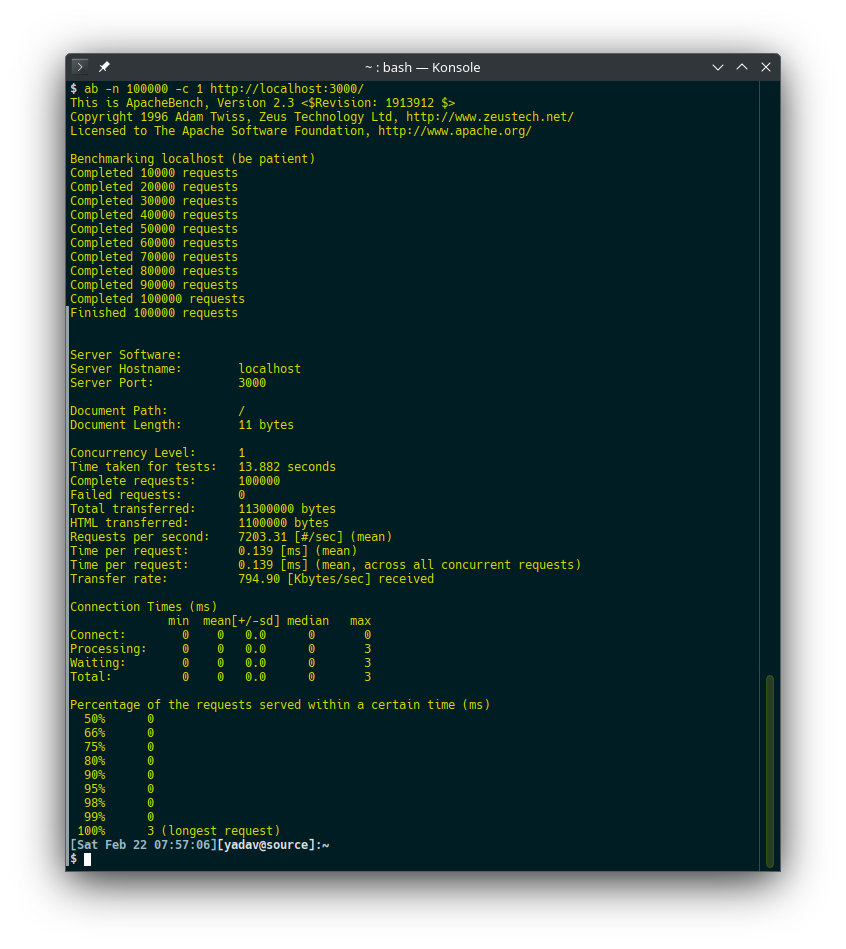
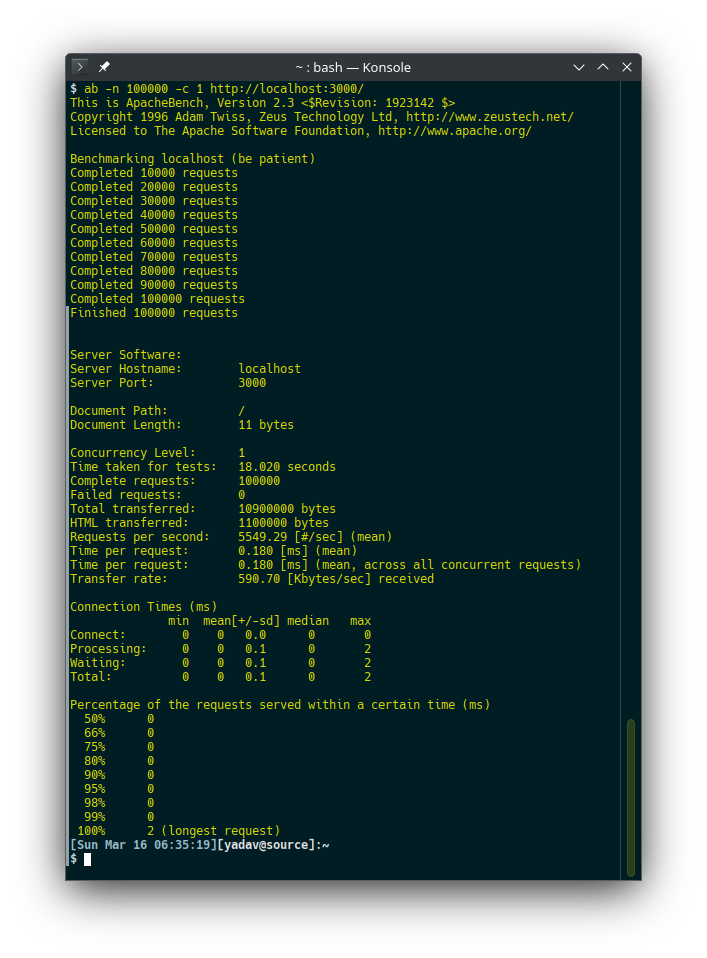
doc: new benchmarks

diff --git a/README.md b/README.md
@@ -534,9 +534,9 @@ Below are the benchmarks results.
 
 Framework | Requests | Total Time | Requests handled / sec
 -|-|-|-
-Furi | 100,000 | 12.670 s | 7892.63
-Fastify | 100,000 | 14.486 s | 7124.84
-Express.js v5.0 | 100,000 | 13.882 s | 7203.31
+Furi | 100,000 | 11.569 s | 8643.74
+Fastify | 100,000 | 12.891 s | 7757.62
+Express.js v5.0 | 100,000 | 18.020 s | 5549.29
 
 ### Furi Benchmark
 
